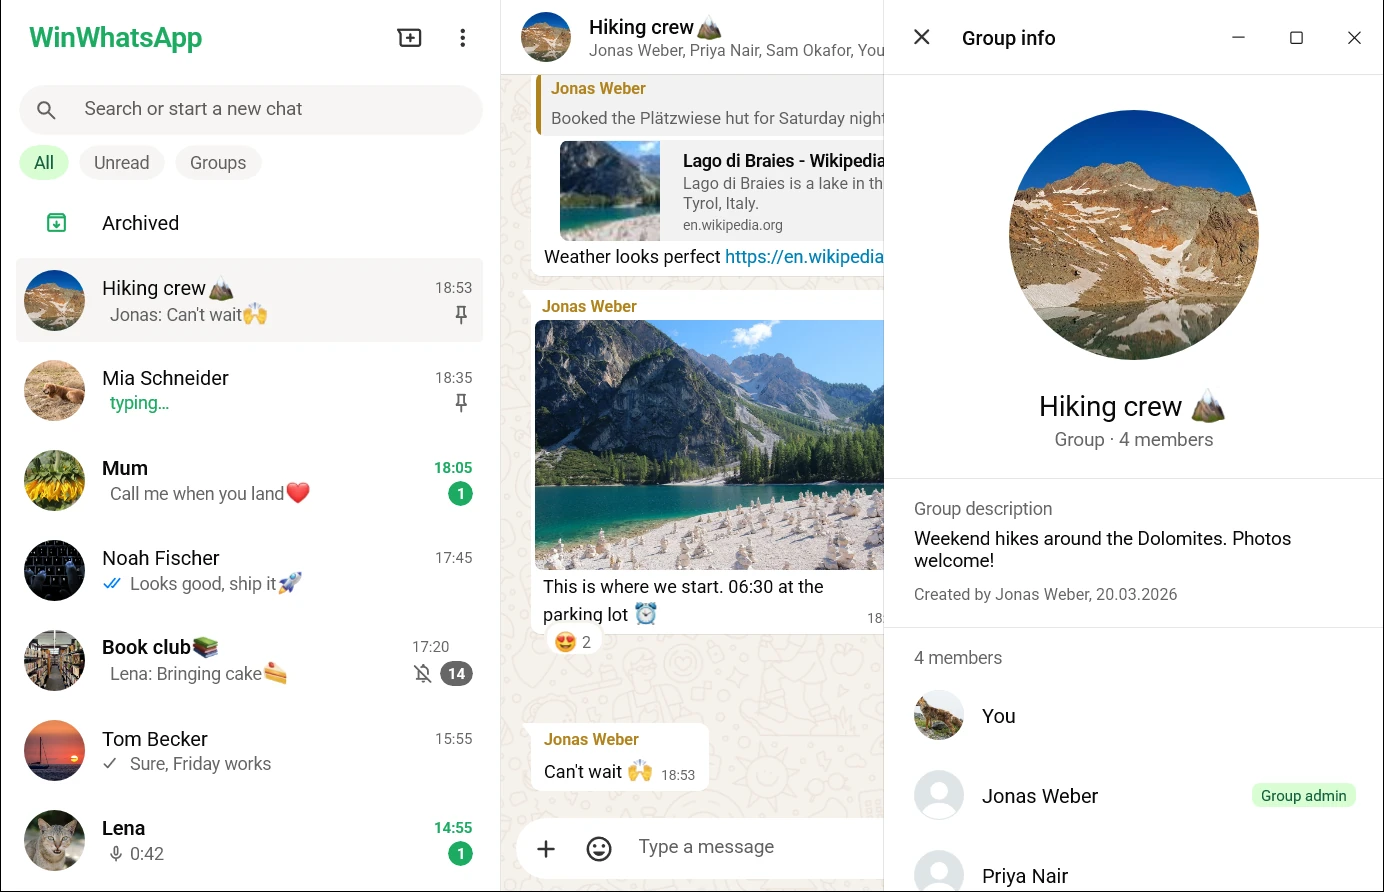
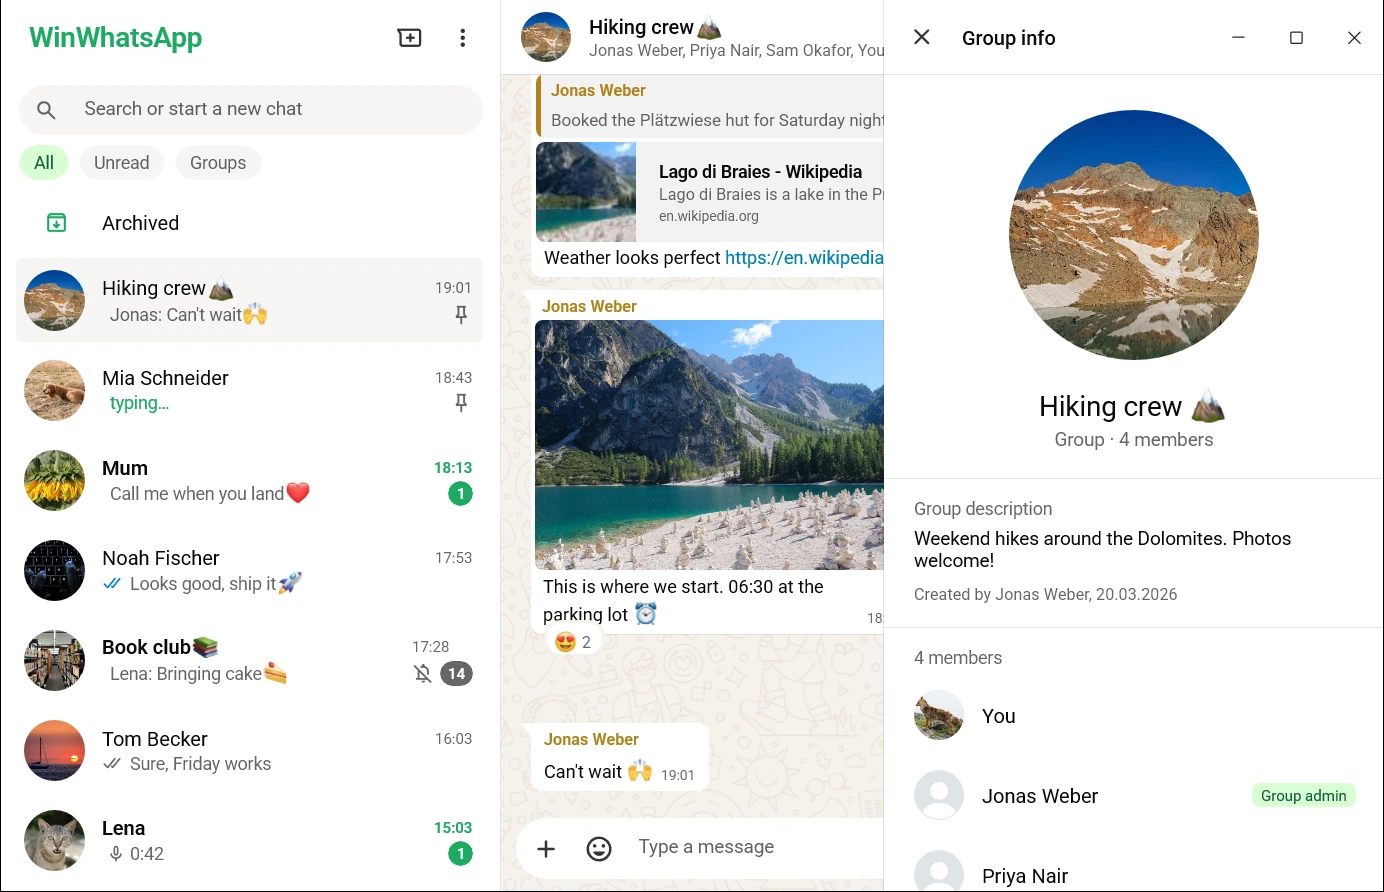
docs: retake the screenshots with delivered ticks

Changed region(s): [[0.3728, 0.0908, 0.6525, 0.3027], [0.3107, 0.9081, 0.3418, 0.9383], [0.3107, 0.3027, 0.3418, 0.333]]

diff --git a/scripts/screenshots/make_demo.py b/scripts/screenshots/make_demo.py
@@ -230,6 +230,10 @@ def main() -> None:
                               "Next meeting at mine?", "Bringing cake 🍰"]):
         add(books, ["priya", "sam", "tom", "lena", "priya", "lena"][i], 2 * hour - i * 5 * minute, text=line)
     add(people["tom"][0], "tom", 3 * hour + 10 * minute, text="Dinner on Friday?")
+    # A link whose page has no picture, with an address longer than the preview.
+    url = "https://en.wikipedia.org/wiki/List_of_restaurants_in_the_Michelin_Guide_in_Berlin_and_their_history"
+    add(people["tom"][0], "tom", 3 * hour + 5 * minute, text=url,
+        link={"url": url, "title": "en.wikipedia.org", "description": url})
     add(people["tom"][0], "me", 3 * hour, text="Sure, Friday works", status=2)
     add(people["lena"][0], "lena", 4 * hour, "voice", media=voice(42, 4))
     add(pizza, "me", 5 * hour + 30 * minute, text="Pizza at mine this Friday?")
